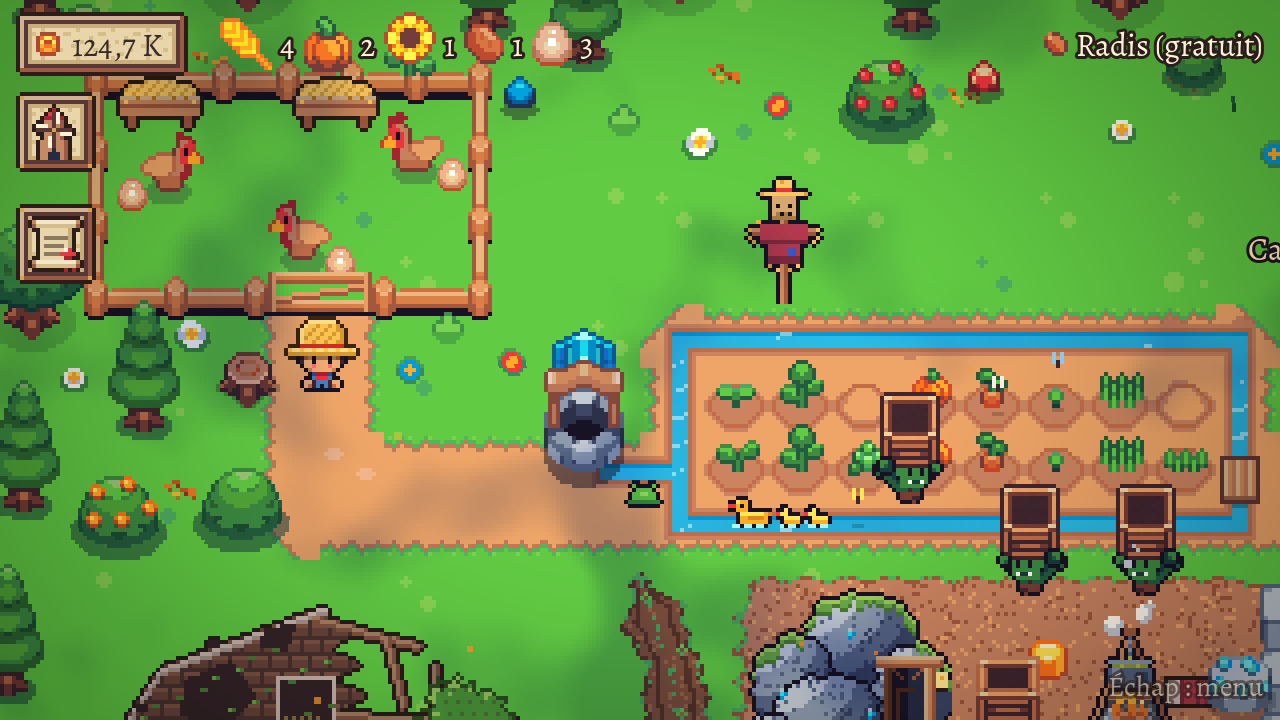
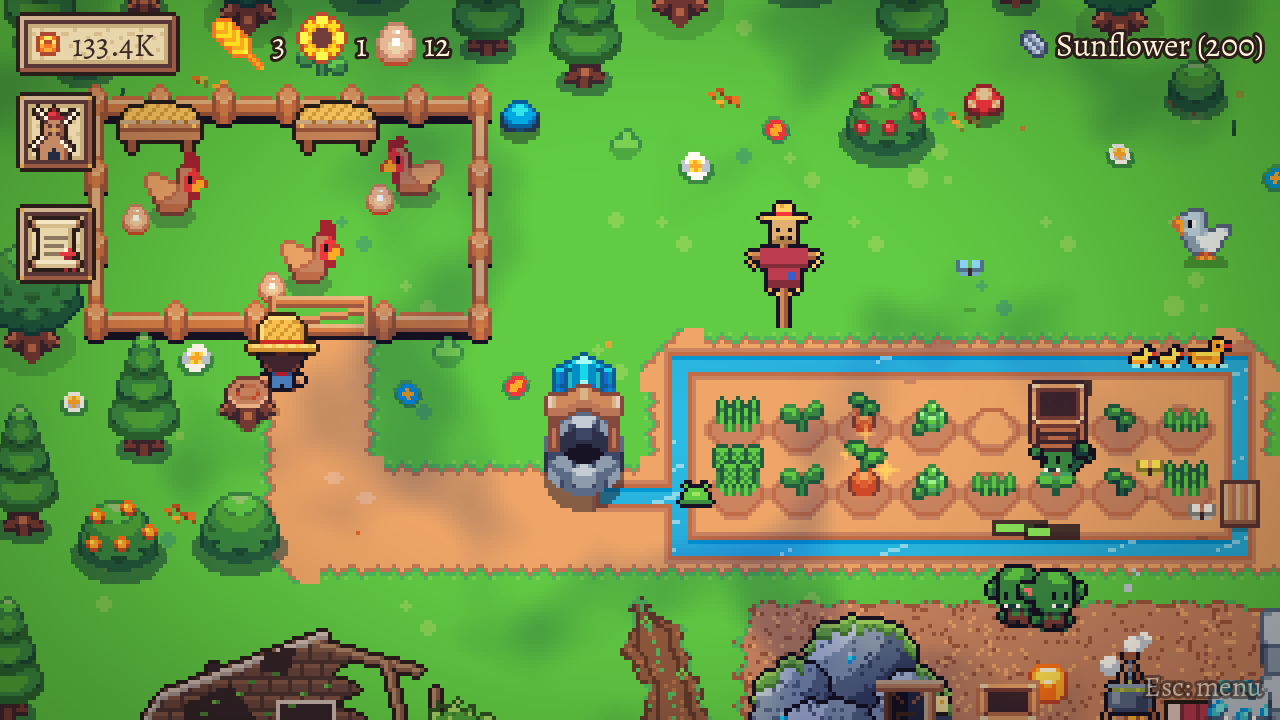
Captures du jeu à jour (en anglais), galerie : pile ou face, vieux sage, conseils de John

diff --git a/index.html b/index.html
@@ -191,6 +191,15 @@
           <button class="gallery__item" type="button" data-full="assets/shots/pen.png">
             <img src="assets/shots/pen.png" width="1280" height="720" loading="lazy" alt="Les poules dans l'enclos.">
           </button>
+          <button class="gallery__item" type="button" data-full="assets/shots/coin_flip.png">
+            <img src="assets/shots/coin_flip.png" width="1280" height="720" loading="lazy" alt="Le pile ou face du gobelin farceur : la pièce tourne en l'air.">
+          </button>
+          <button class="gallery__item" type="button" data-full="assets/shots/sage.png">
+            <img src="assets/shots/sage.png" width="1280" height="720" loading="lazy" alt="Le vieux sage : renaissance et bonus permanents en graines dorées.">
+          </button>
+          <button class="gallery__item" type="button" data-full="assets/shots/tutorial.png">
+            <img src="assets/shots/tutorial.png" width="1280" height="720" loading="lazy" alt="Les premiers pas : John donne ses conseils dans une bulle.">
+          </button>
         </div>
       </div>
     </section>
@@ -214,7 +223,7 @@
           </a>
         </div>
         <figure class="frame frame--tilt-right">
-          <img src="assets/shots/farm.png" width="1280" height="720" loading="lazy" alt="L'interface du jeu : pièces, stock, champ et gobelins au travail.">
+          <img src="assets/shots/farm.png" width="1280" height="720" loading="lazy" alt="L'interface du jeu : une vente à la caisse, les pièces qui volent jusqu'au compteur, gobelins au travail.">
         </figure>
       </div>
     </section>
